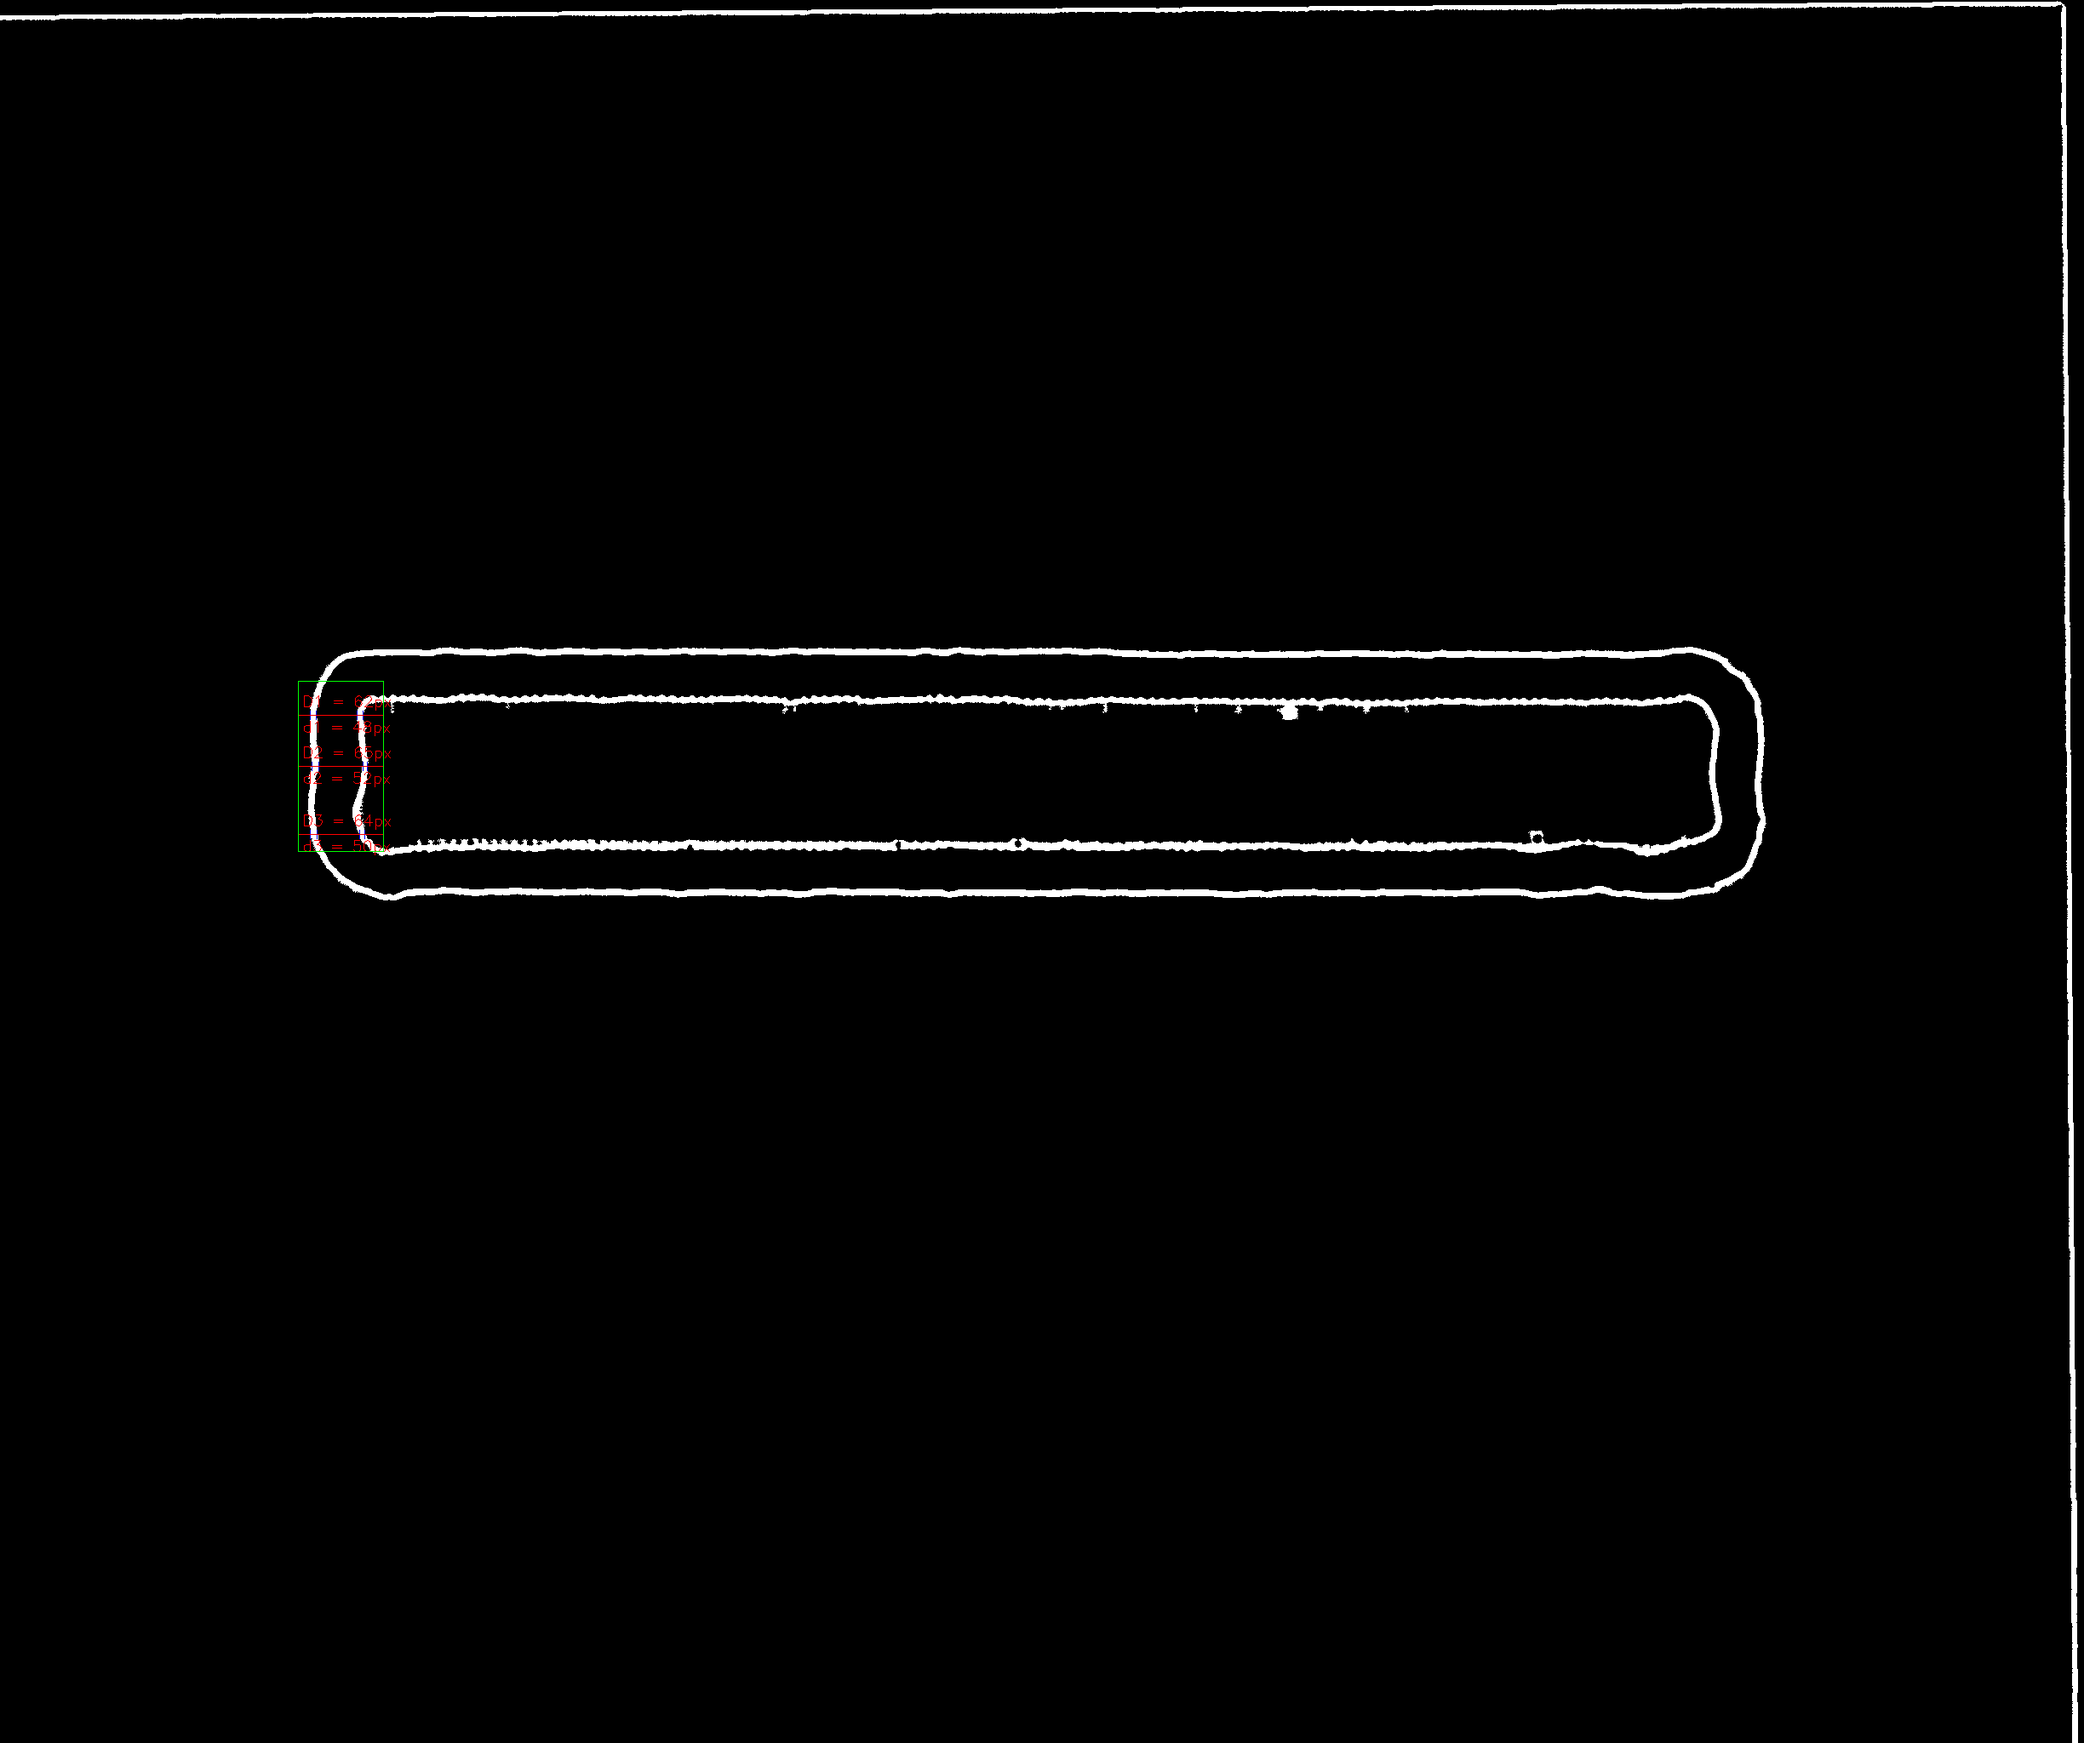
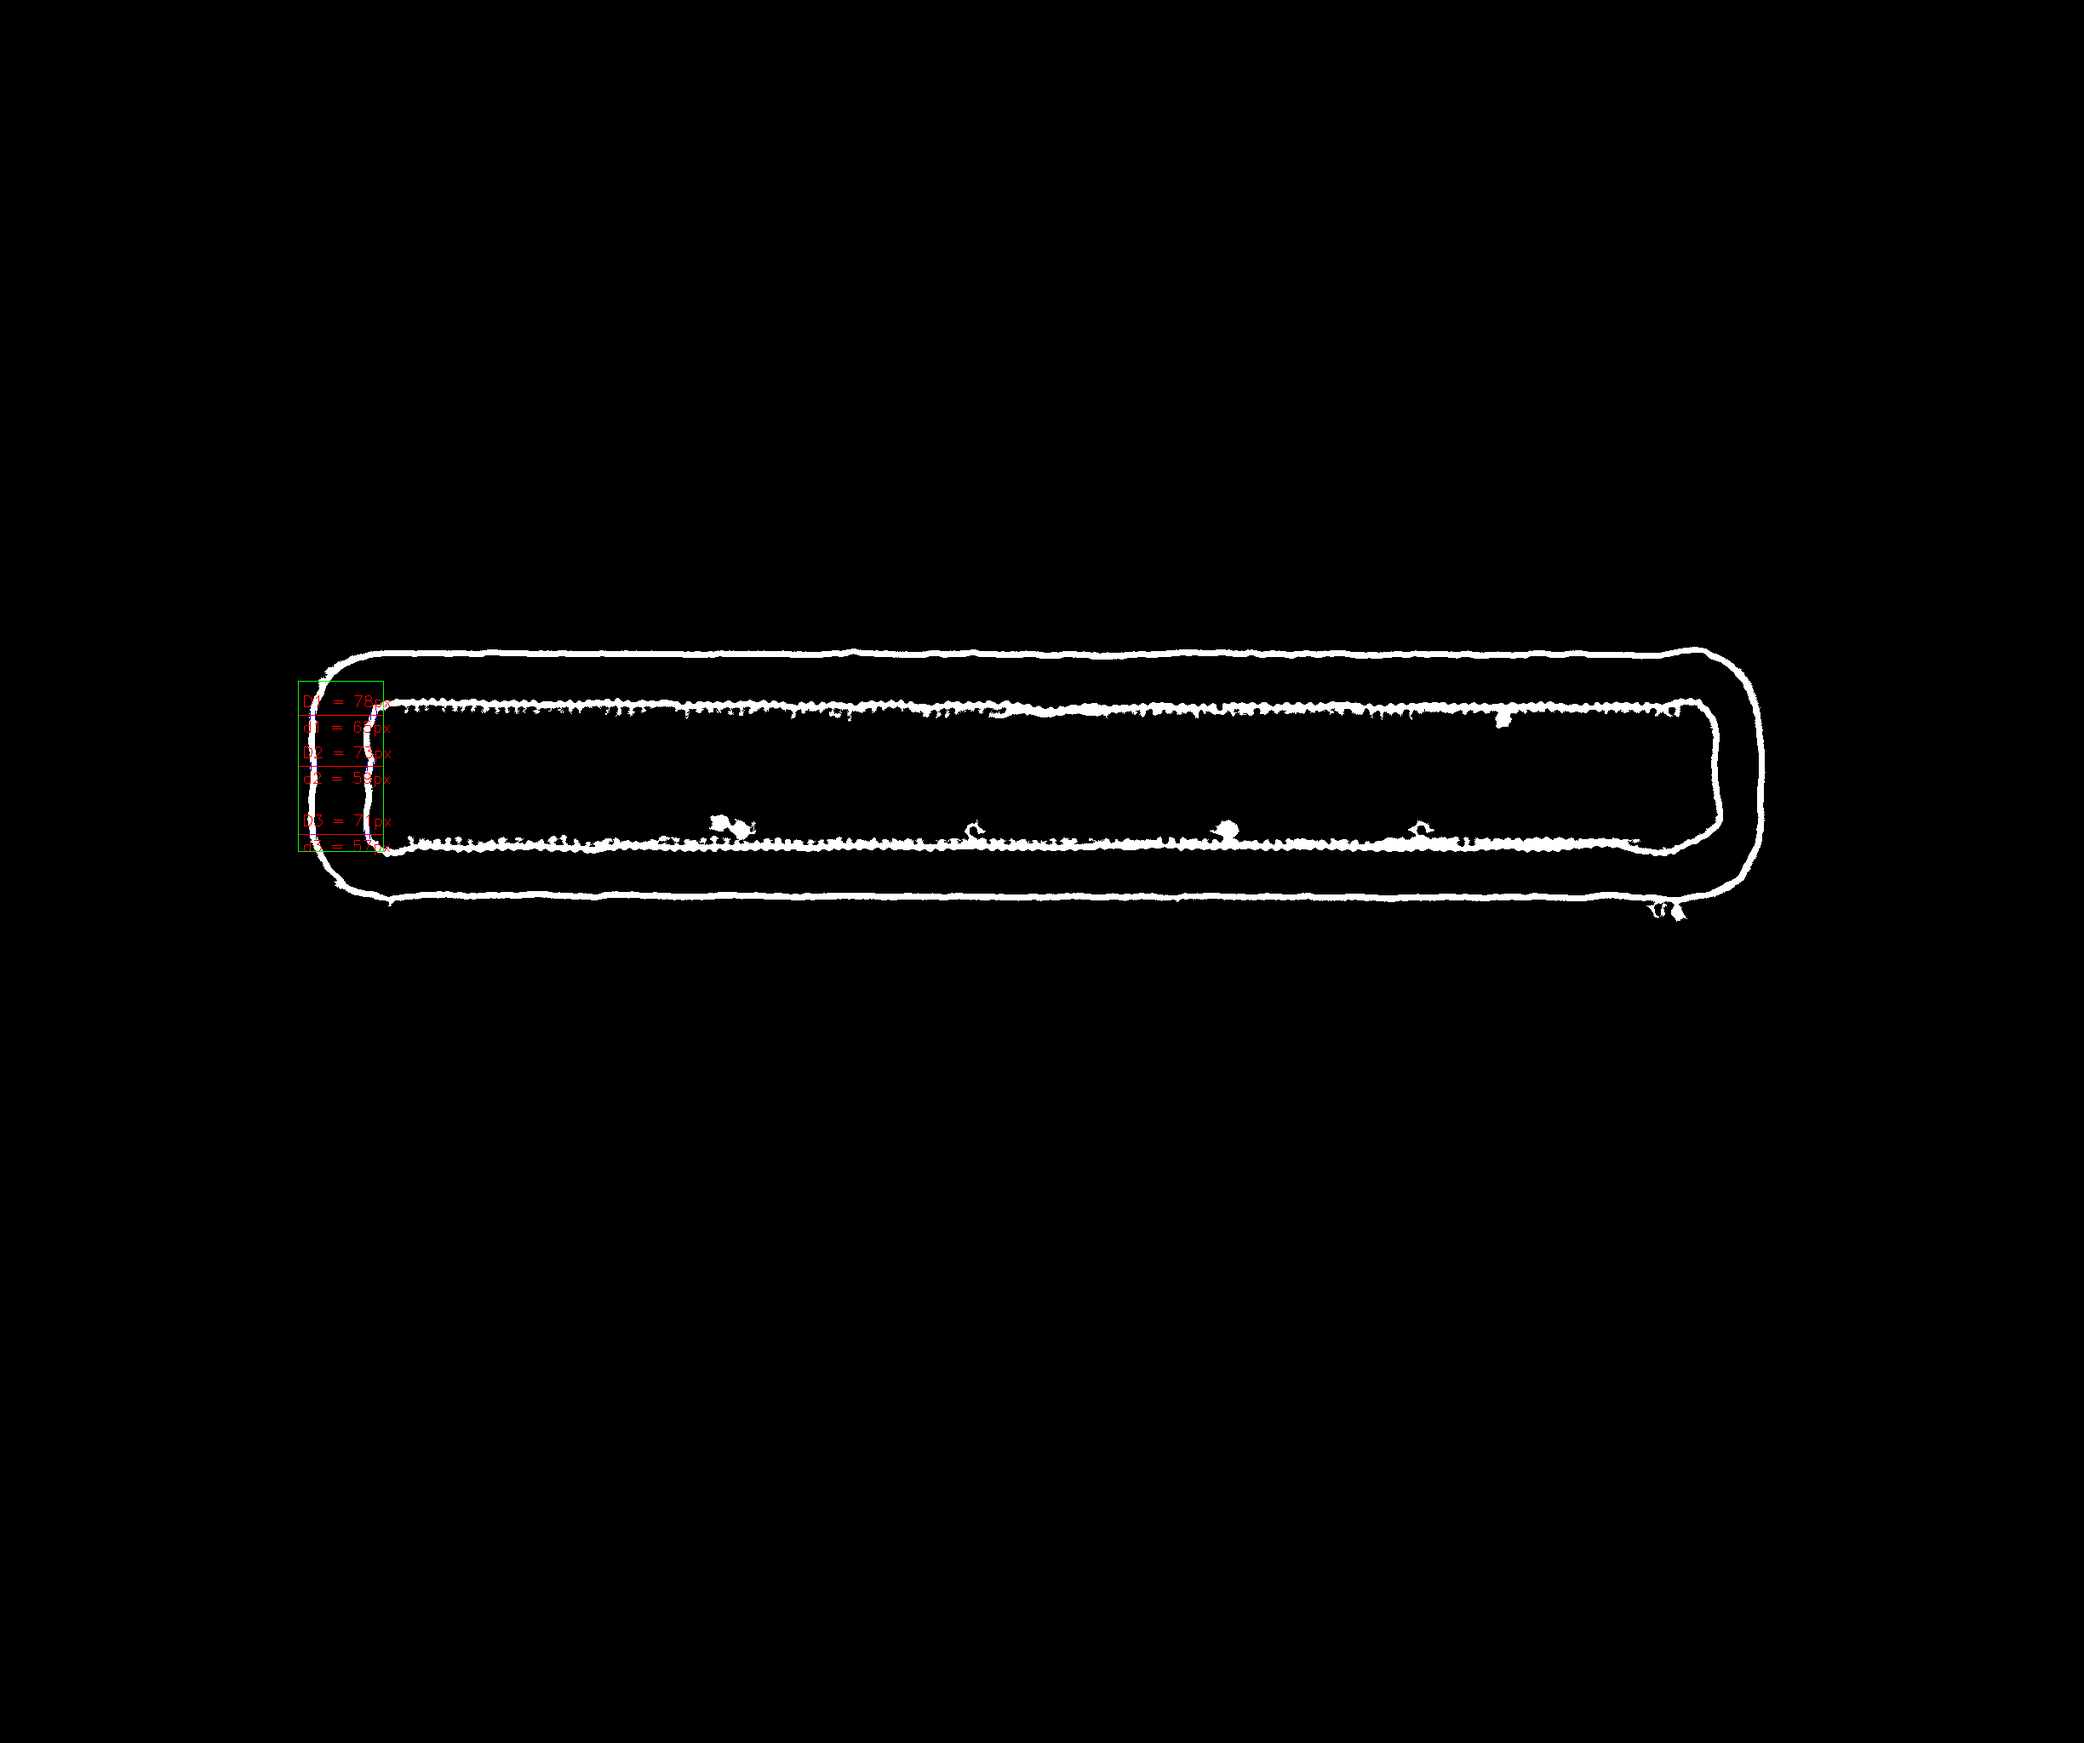
add beta3.py

diff --git a/beta3.py b/beta3.py
@@ -1,0 +1,192 @@
+import os
+import cv2
+import numpy as np
+from argparse import ArgumentParser
+
+
+def parse_image(outdir, image_path=None, show=False):
+    if not image_path:
+        print("image_path is None")
+        return
+    image = cv2.imread(image_path, cv2.IMREAD_GRAYSCALE)
+
+    imagename = os.path.splitext(os.path.basename(image_path))[0]
+    print("imagename", imagename)
+
+    # 读取图像
+    image = cv2.imread(image_path, cv2.IMREAD_GRAYSCALE)
+
+    # 使用 Gaussian 模糊来平滑图像，减少噪声
+    blur_radius = 13
+    image = cv2.GaussianBlur(image, (blur_radius, blur_radius), 0)
+
+    # 使用自适应阈值来进行二值化
+    binary = cv2.adaptiveThreshold(
+        image, 255, cv2.ADAPTIVE_THRESH_GAUSSIAN_C, cv2.THRESH_BINARY, 11, 2
+    )
+
+    # 反转颜色，使得白色部分为我们感兴趣的区域
+    binary = cv2.bitwise_not(binary)
+
+    # 寻找轮廓
+    contours, _ = cv2.findContours(binary, cv2.RETR_TREE, cv2.CHAIN_APPROX_SIMPLE)
+
+    # 选择最大的轮廓进行简化和平滑
+    contours_keep = 4
+    contours = sorted(contours, key=cv2.contourArea, reverse=True)[:contours_keep]
+
+    # 选择最内层的轮廓来绘制
+    mask = np.zeros_like(image)
+    cv2.drawContours(mask, contours, -1, 255, thickness=cv2.FILLED)
+
+    # 定义分析的区域
+    x_start, x_end = 350, 450
+    y_start, y_end = 800, 1000
+
+    # 指定测量位置的Y坐标
+    # y_positions = [830, 900, 980]
+    y_positions = [840, 900, 980]
+
+    p1, radius = (x_start, y_start), 10
+    p2, radius = (x_end, y_end), 10
+
+    x_indices_list = []
+    disc_index_list = []
+
+    # 仅分析指定区域内的这些Y坐标
+    def measure_widths_in_area(mask, y_positions, x_start, x_end, min_gap=15):
+        measurements = []
+        for y in y_positions:
+            # 仅分析指定区域内的X坐标
+            if y_start <= y <= y_end:
+                x_indices = np.where(mask[y, x_start:x_end] == 255)[0] + x_start
+                x_indices_list.append(x_indices)
+                print("x_indices", x_indices)
+                if len(x_indices) >= 2:
+                    # 外边缘宽度 D
+                    D = x_indices[-1] - x_indices[0]
+                    disc_index = [
+                        i
+                        for i in range(1, len(x_indices))
+                        if x_indices[i] - x_indices[i - 1] > 1
+                    ]
+                    if len(disc_index) > 0:
+                        disc = disc_index[0]
+                        d = x_indices[disc] - x_indices[disc - 1]
+                    else:
+                        d = None
+                    measurements.append((D, d))
+                else:
+                    measurements.append((None, None))
+                disc_index_list.append(disc_index)
+            else:
+                measurements.append((None, None))
+        return measurements
+
+    # 测量宽度
+    widths = measure_widths_in_area(mask, y_positions, x_start, x_end)
+    width_average = [(D + d) / 2 for D, d in widths]
+
+    # 在图像上绘制测量结果
+    output_image = cv2.cvtColor(
+        mask, cv2.COLOR_GRAY2BGR
+    )  # 将灰度图像转换为BGR以便绘制彩色线条
+
+    for i, x_indices in enumerate(x_indices_list):
+        height = 5
+        disc_index = disc_index_list[i]
+        # 在每个不连续点位置画纵线
+        y = y_positions[i]
+        Dx1, Dx2 = x_indices[0], x_indices[-1]
+        cv2.line(output_image, (Dx1, y - height), (Dx1, y + height), (255, 0, 0), 1)
+        cv2.line(output_image, (Dx2, y - height), (Dx2, y + height), (255, 0, 0), 1)
+
+        # for idx in disc_index:
+        idx = disc_index[0]
+        x1, x2 = x_indices[idx - 1], x_indices[idx]
+        print(f"Dx1={Dx1}, Dx2={Dx2}, x1={x1}, x2={x2}")
+        # print(y - height, y + height)
+        cv2.line(output_image, (x1, y - height), (x1, y + height), (255, 0, 0), 1)
+        cv2.line(output_image, (x2, y - height), (x2, y + height), (255, 0, 0), 1)
+
+    for i, (D, d) in enumerate(widths):
+        y = y_positions[i]
+        if D is not None and d is not None:
+            cv2.line(
+                output_image, (x_start, y), (x_end, y), (0, 0, 255), 1
+            )  # 画出 y 坐标的水平线
+            cv2.putText(
+                output_image,
+                f"D{i+1} = {D}px",
+                (x_start + 5, y - 10),
+                cv2.FONT_HERSHEY_SIMPLEX,
+                0.6,
+                (0, 0, 255),
+                1,
+            )
+            cv2.putText(
+                output_image,
+                f"d{i+1} = {d}px",
+                (x_start + 5, y + 20),
+                cv2.FONT_HERSHEY_SIMPLEX,
+                0.6,
+                (0, 0, 255),
+                1,
+            )
+
+    scale = 58.5 / 0.63  # = 92.85
+    width_average_real = [w / scale for w in width_average]
+
+    # 显示结果
+    print("widths", widths)
+    print("width_average", width_average)
+    print("width_average_real", width_average_real)
+
+    cv2.rectangle(output_image, p1, p2, (0, 255, 0), 1)
+
+    # 裁剪图像仅保留感兴趣区域
+    cropped_image = output_image[y_start:y_end, x_start:x_end]
+
+    if show:
+        cv2.imshow("Measurement Results", cropped_image)
+        cv2.waitKey(0)
+        cv2.destroyAllWindows()
+
+    # 保存结果图像
+    cv2.imwrite(f"{outdir}/{imagename}.png", cropped_image)
+    # compression_params = [cv2.IMWRITE_JPEG_QUALITY, 60]
+    # cv2.imwrite(f"{outdir}/{imagename}.jpg", cropped_image, compression_params)
+
+
+if __name__ == "__main__":
+    parser = ArgumentParser()
+    # parser.add_argument("--image_path", type=str)
+    parser.add_argument("--outdir", type=str, default="out")
+    parser.add_argument("--show", type=str, default=False)
+    args = parser.parse_args()
+    # image_path = args.image_path
+    outdir = args.outdir
+    show = args.show
+    # print("image_path", image_path)
+    print("outdir", outdir)
+    print("show", show)
+
+    if not os.path.exists(outdir):
+        os.makedirs(outdir)
+
+    outputs = []
+
+    # parse_image(outdir, image_path)
+    #
+    # output.csv format:
+    # sn, w1,w2,w3
+    # imagename, width_average_real[0], width_average_real[1], width_average_real[2]
+    # ...
+    #
+    imagepaths = [
+        "images/bench_images/GL135141V1L0XFCA1+P13434443114.jpg",
+        "images/bench_images/GL135141V3E0XFCA1+P13152515314.jpg",
+    ]
+
+    for image_path in imagepaths:
+        parse_image(outdir, image_path, show)
